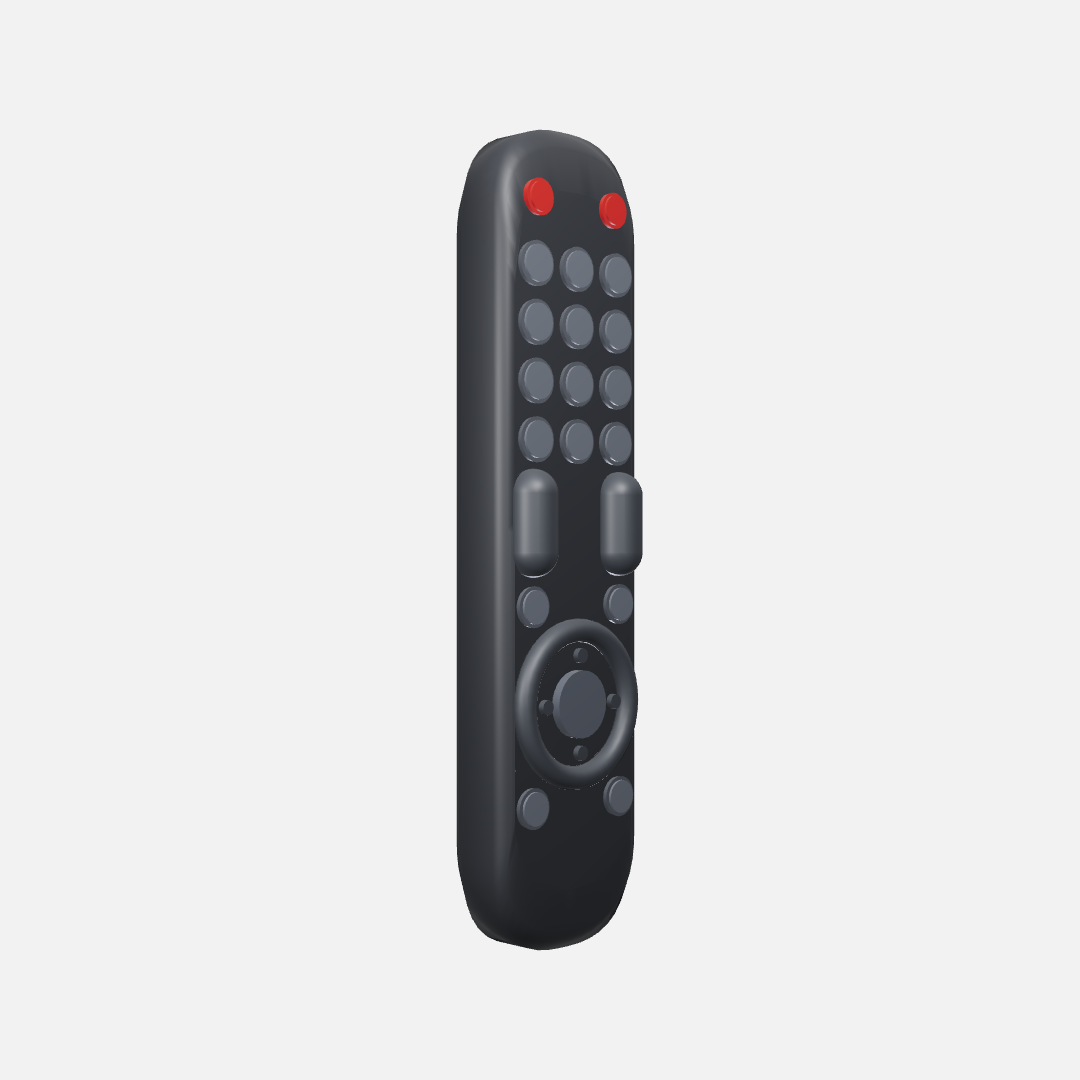
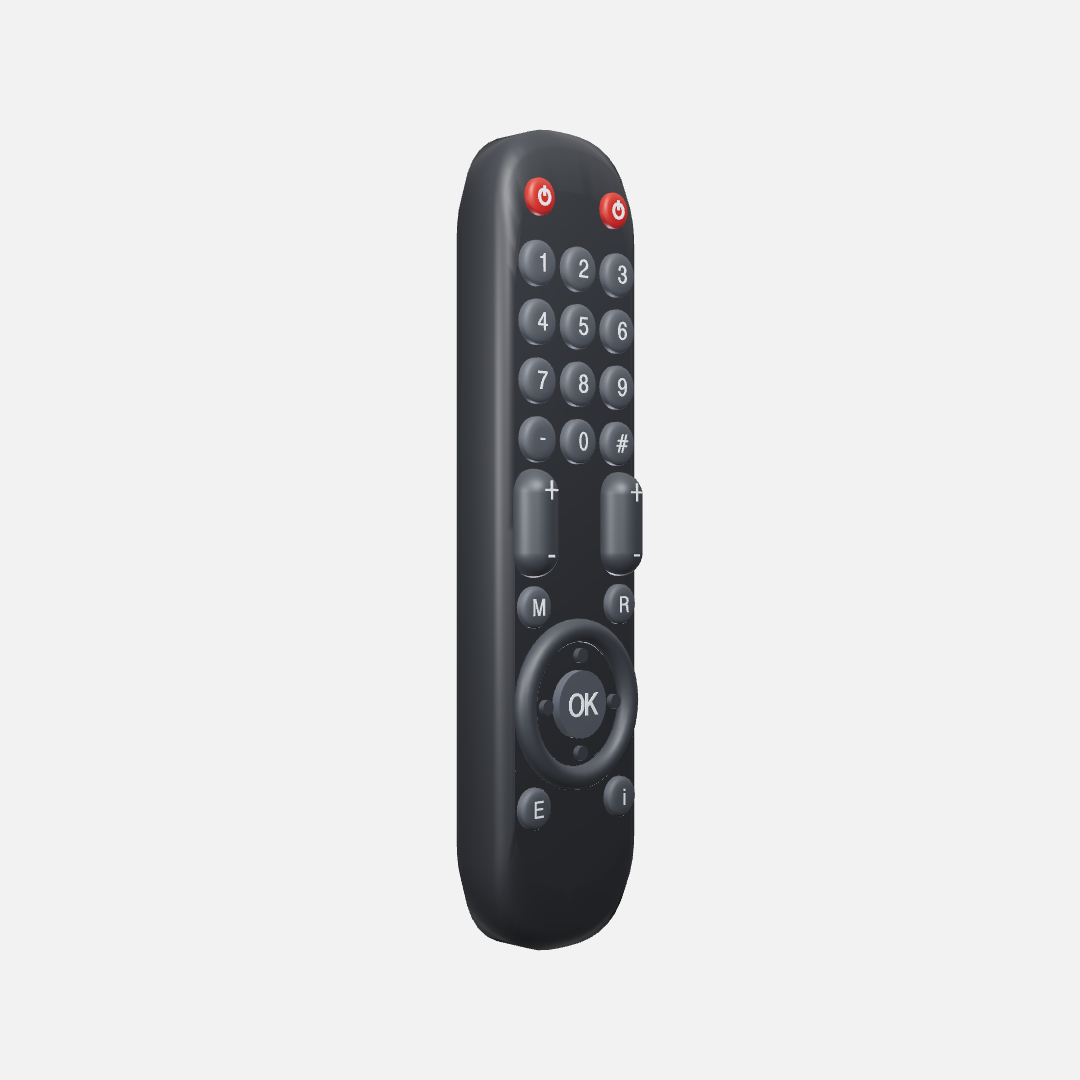
feat(detail): real legends and beveled caps — the remote reads as a product now
Stage 1 of the detail plan, and the end-to-end proof that production surface
detail is reachable under the DOM-free/synchronous factory contract. The remote
went from grey blanks to a labelled, moulded-looking control surface: the
numeric pad shows 1-9, 0, -, #; both power keys carry a real IEC power glyph;
the rockers show + / -; the nav centre says OK; the function keys read M/R/E/i.

Two techniques, both already precedented in this repo, finally applied to the
buttons that lacked them:

- Real numerals as geometry. src/models/detail/text.ts — the one shared file
  the plan sanctions — imports helvetiker as BUNDLED JSON (never FontLoader.load)
  and extrudes it with TextGeometry. A static import is resolved by the bundler,
  so there is no document, no canvas, no async fetch: it builds in the vitest
  node project (typeof document === undefined, asserted) AND renders through the
  Remotion webpack bundler (verified by an actual still, the leg the plan flagged
  untested). glyphs.ts already did this for bespoke ABXY marks with hand-drawn
  Shapes; text.ts covers the arbitrary-alphanumeric case a hand set can't scale
  to, and a new power glyph (a broken ring + bar, Shape[]) joins the glyph set.

- One lathed cap with a real chamfer, replacing the flat disc-on-disc stack.
  The rim now catches an actual highlight — the grimoire's #1 "fake" tell is a
  perfectly sharp edge, and laptop's slab() makes the same case for its bevel.
[…]

diff --git a/src/models/remote/createRemoteModel.ts b/src/models/remote/createRemoteModel.ts
@@ -3,16 +3,20 @@ import {
   Color,
   CylinderGeometry,
   Group,
+  LatheGeometry,
   Mesh,
   MeshStandardMaterial,
   TorusGeometry,
   Vector2,
 } from "three";
 import { Shape } from "three";
+import type { BufferGeometry } from "three";
 import type { ModelHandles } from "../types";
 import type { PartsContract } from "../contract";
 import { loftGeometry } from "../loft";
 import { OBJECT_CLASSES, mountPoints, partSize } from "../knowledge/objectClasses";
+import { glyphGeometry } from "../glyphs";
+import { textGeometry } from "../detail/text";
 
 /**
  * Procedural TV/DVD remote — a new object built to test the one-pass pipeline end to end.
@@ -127,11 +131,14 @@ export const createRemoteModel = (options: RemoteModelOptions = {}): ModelHandle
     metalness: 0.08,
   });
   const keyMaterial = new MeshStandardMaterial({ color: new Color(COL.key), roughness: 0.55, metalness: 0.05 });
-  const keyTopMaterial = new MeshStandardMaterial({ color: new Color(COL.keyTop), roughness: 0.5, metalness: 0.05 });
   const rockerMaterial = new MeshStandardMaterial({ color: new Color(COL.rocker), roughness: 0.5, metalness: 0.06 });
   const powerMaterial = new MeshStandardMaterial({ color: new Color(COL.power), roughness: 0.42, metalness: 0.08 });
   const ringMaterial = new MeshStandardMaterial({ color: new Color(COL.ring), roughness: 0.5, metalness: 0.08 });
   const okMaterial = new MeshStandardMaterial({ color: new Color(COL.ok), roughness: 0.48, metalness: 0.06 });
+  // Legends are a LIT material, never emissive: an emissive legend washes out to pastel under the
+  // bench key light (the gamepad's ABXY comment and materials.ts both record this). COL.legend was
+  // defined and unused until now — this is what it was for.
+  const legendMaterial = new MeshStandardMaterial({ color: new Color(COL.legend), roughness: 0.5, metalness: 0.1 });
 
   const root = new Group();
   root.name = "Remote";
@@ -143,16 +150,36 @@ export const createRemoteModel = (options: RemoteModelOptions = {}): ModelHandle
   body.name = "Body";
   root.add(body);
 
-  /** A round key: a short disc with a slightly smaller lit top, so it reads as a moulded button. */
-  const roundKey = (r: number, mat: MeshStandardMaterial, top = keyTopMaterial): Group => {
+  /**
+   * A button cap as ONE lathed surface: a straight skirt turning through a chamfer into a slightly
+   * dished top. The chamfer is real geometry, not a normal map — it has to catch an actual rim
+   * highlight, the exact thing the old disc-on-disc `roundKey` couldn't (grimoire's #1 "fake" tell
+   * is a perfectly sharp edge; laptop's slab() makes the same argument for its bevel). ~28 radial
+   * segments; caps cache nothing individually but the legend geometry does.
+   */
+  const CAP_TOP = 0.96;
+  const buttonCap = (r: number, h: number, mat: MeshStandardMaterial): Mesh => {
+    const pt = (rad: number, y: number): Vector2 => new Vector2(r * rad, h * y);
+    const profile = [pt(1, 0), pt(1, 0.5), pt(0.94, 0.72), pt(0.78, 0.9), pt(0.48, 0.99), pt(0, CAP_TOP)];
+    const geo = new LatheGeometry(profile, 28);
+    geo.rotateX(Math.PI / 2); // lathe revolves around Y; turn the cap to face +Z like everything else
+    return new Mesh(geo, mat);
+  };
+
+  /**
+   * A button: a lathed cap plus a printed legend flush on its dished top. Returns a named Group so
+   * the part-count and on-surface gates still see one proud control per mount point.
+   */
+  const button = (name: string, r: number, mat: MeshStandardMaterial, legend?: BufferGeometry): Group => {
     const g = new Group();
-    const base = new Mesh(new CylinderGeometry(r, r * 0.95, 0.05, 24), mat);
-    base.rotation.x = Math.PI / 2;
-    g.add(base);
-    const cap = new Mesh(new CylinderGeometry(r * 0.82, r * 0.82, 0.02, 24), top);
-    cap.rotation.x = Math.PI / 2;
-    cap.position.z = 0.032;
-    g.add(cap);
+    g.name = name;
+    const h = r * 0.5;
+    g.add(buttonCap(r, h, mat));
+    if (legend) {
+      const l = new Mesh(legend, legendMaterial);
+      l.position.z = h * CAP_TOP; // sits in the dish; the legend's own depth leaves it half-proud
+      g.add(l);
+    }
     return g;
   };
 
@@ -162,29 +189,39 @@ export const createRemoteModel = (options: RemoteModelOptions = {}): ModelHandle
     parts[obj.name] = obj;
   };
 
-  // ── power keys (from the class mounts) ─────────────────────────────────
-  const powerR_mm = partSize("remote", "power", U).width! / 2;
+  // ── power keys (from the class mounts) — a real IEC power glyph on each ──
+  const powerR = partSize("remote", "power", U).width! / 2;
+  const powerGlyph = glyphGeometry("power", { size: powerR * 0.95, depth: 0.012, bevel: 0.003 });
   mountPoints("remote", "power", U).forEach((p, i) => {
-    const k = roundKey(powerR_mm, powerMaterial, powerMaterial);
-    k.name = i === 0 ? "powerL" : "powerR";
-    place(k, p[0], p[1]);
+    place(button(i === 0 ? "powerL" : "powerR", powerR, powerMaterial, powerGlyph), p[0], p[1]);
   });
 
-  // ── numeric pad ────────────────────────────────────────────────────────
+  // ── numeric pad — real numerals, one geometry per digit (cached, so repeats are free) ──
   const numR = partSize("remote", "number", U).width! / 2;
+  const NUM_LABELS = ["1", "2", "3", "4", "5", "6", "7", "8", "9", "-", "0", "#"];
   mountPoints("remote", "number", U).forEach((p, i) => {
-    const k = roundKey(numR, keyMaterial);
-    k.name = `num${String(i).padStart(2, "0")}`;
-    place(k, p[0], p[1]);
+    const legend = textGeometry(NUM_LABELS[i], { size: numR * 0.82, depth: 0.012 });
+    place(button(`num${String(i).padStart(2, "0")}`, numR, keyMaterial, legend), p[0], p[1]);
   });
 
-  // ── volume / channel rockers ────────────────────────────────────────────
+  // ── volume / channel rockers, with + / − at the ends ────────────────────
   const rk = partSize("remote", "rocker", U);
   const rockerLen = rk.height! - rk.width!; // capsule cylinder length = total − 2·radius
+  const rockerR = rk.width! / 2;
+  const plusGeo = textGeometry("+", { size: rockerR * 0.9, depth: 0.01 });
+  const minusGeo = textGeometry("-", { size: rockerR * 0.9, depth: 0.01 });
   mountPoints("remote", "rocker", U).forEach((p, i) => {
-    const m = new Mesh(new CapsuleGeometry(rk.width! / 2, rockerLen, 6, 16), rockerMaterial);
+    const m = new Mesh(new CapsuleGeometry(rockerR, rockerLen, 6, 16), rockerMaterial);
     // Capsule stands along Y (its default axis) — a tall pill you press top or bottom.
     m.name = i === 0 ? "rockerL" : "rockerR";
+    // + near the top, − near the bottom, on the front of the pill — reads instantly as a rocker.
+    const zFront = rockerR + 0.004;
+    const plus = new Mesh(plusGeo, legendMaterial);
+    plus.position.set(0, rk.height! * 0.3, zFront);
+    m.add(plus);
+    const minus = new Mesh(minusGeo, legendMaterial);
+    minus.position.set(0, -rk.height! * 0.3, zFront);
+    m.add(minus);
     place(m, p[0], p[1], 0.02);
   });
 
@@ -198,6 +235,9 @@ export const createRemoteModel = (options: RemoteModelOptions = {}): ModelHandle
   ok.rotation.x = Math.PI / 2;
   ok.position.z = 0.02;
   navpad.add(ok);
+  const okLegend = new Mesh(textGeometry("OK", { size: navOuter * 0.3, depth: 0.01 }), legendMaterial);
+  okLegend.position.z = 0.055;
+  navpad.add(okLegend);
   // four directional cues, so the ring reads as a d-pad rather than a washer
   for (let d = 0; d < 4; d++) {
     const a = (d / 4) * Math.PI * 2;
@@ -213,13 +253,13 @@ export const createRemoteModel = (options: RemoteModelOptions = {}): ModelHandle
   // d-pad stands a little proud anyway.
   place(navpad, navMount[0], navMount[1], 0.02);
 
-  // ── function keys ────────────────────────────────────────────────────────
+  // ── function keys — single-letter legends (menu / return / exit / info) ──
   const fnR = partSize("remote", "functionButton", U).width! / 2;
   const fnNames = ["fnMenu", "fnReturn", "fnExit", "fnInfo"];
+  const FN_LABELS = ["M", "R", "E", "i"];
   mountPoints("remote", "functionButton", U).forEach((p, i) => {
-    const k = roundKey(fnR, keyMaterial);
-    k.name = fnNames[i];
-    place(k, p[0], p[1]);
+    const legend = textGeometry(FN_LABELS[i], { size: fnR * 0.8, depth: 0.012 });
+    place(button(fnNames[i], fnR, keyMaterial, legend), p[0], p[1]);
   });
 
   root.userData.sculptRuntime = {

diff --git a/src/models/detail/text.ts b/src/models/detail/text.ts
@@ -1,0 +1,70 @@
+import { Font } from "three/examples/jsm/loaders/FontLoader.js";
+import { TextGeometry } from "three/examples/jsm/geometries/TextGeometry.js";
+import type { BufferGeometry } from "three";
+import helvetiker from "three/examples/fonts/helvetiker_regular.typeface.json";
+
+/**
+ * Real 3D text as geometry — the DOM-free, synchronous way.
+ *
+ * WHY THIS FILE IS THE ONLY SHARED ONE. Everything else about a detailed button (bevel, well, cap)
+ * is a pure function of numbers a factory can call inline. A FONT is the one genuine cross-file
+ * singleton: it must be parsed once and reused, so it earns its own module. The library the plan
+ * eventually extracts starts here and nowhere else — the rest stays inline until a second model
+ * repeats the need.
+ *
+ * The font is IMPORTED as bundled JSON, never `FontLoader.load(url)`. That is the whole trick:
+ * a static import is resolved by the bundler at build time, so there is no `document`, no canvas,
+ * and no async fetch — none of the delayRender race `useGltf` exists to manage (hard rule #6).
+ * glyphs.ts already does the same for the ABXY letterforms with hand-drawn Shapes; this covers the
+ * arbitrary-alphanumeric case (digits, VOL/CH) a hand-drawn set can't scale to.
+ *
+ * helvetiker ships with three (MgOpen/MAGENTA, MIT-style) — fine to render into portfolio video. A
+ * branded typeface would be an offline TTF→typeface.json conversion committed as a static asset,
+ * still never a runtime load.
+ */
+
+// The typeface JSON's shape doesn't match three's exported FontData type exactly; the Font
+// constructor only reads the glyph table, so the cast is safe and keeps strict mode honest.
+const FONT = new Font(helvetiker as unknown as ConstructorParameters<typeof Font>[0]);
+
+export interface TextOptions {
+  /** Cap height in model units. */
+  size: number;
+  /** Extrusion depth. Keep small — a legend is a thin printed mark, not a monument. */
+  depth: number;
+  /** Rim chamfer; 0 for a flat printed look. */
+  bevel?: number;
+  /**
+   * Curve subdivision. Capped LOW on purpose: three's default of 12 balloons one digit to ~4.6k
+   * triangles; 4 gives a clean read at legend scale for a third of the cost (measured).
+   */
+  curveSegments?: number;
+}
+
+const cache = new Map<string, BufferGeometry>();
+
+/**
+ * Extruded, centred text geometry, cached by its full spec. Repeated digits then cost nothing —
+ * a numeric pad reuses one "5" geometry wherever a 5 appears. Multi-character strings are ONE
+ * TextGeometry so kerning comes for free.
+ */
+export const textGeometry = (text: string, opts: TextOptions): BufferGeometry => {
+  const cs = opts.curveSegments ?? 4;
+  const bevel = opts.bevel ?? 0;
+  const key = `${text}|${opts.size}|${opts.depth}|${bevel}|${cs}`;
+  const hit = cache.get(key);
+  if (hit) return hit;
+  const geo = new TextGeometry(text, {
+    font: FONT,
+    size: opts.size,
+    depth: opts.depth,
+    curveSegments: cs,
+    bevelEnabled: bevel > 0,
+    bevelThickness: bevel,
+    bevelSize: bevel,
+    bevelSegments: 2,
+  });
+  geo.center();
+  cache.set(key, geo);
+  return geo;
+};

diff --git a/src/models/detail/text.test.ts b/src/models/detail/text.test.ts
@@ -1,0 +1,34 @@
+import { describe, expect, it } from "vitest";
+import { textGeometry } from "./text";
+
+/**
+ * The spike that must pass before anything is built on the font path: real extruded text, in the
+ * NODE project, with no DOM and no async. If `document` were needed this would throw on import.
+ */
+describe("textGeometry", () => {
+  it("builds a digit as geometry in node — no DOM, no canvas, no async", () => {
+    expect(typeof document).toBe("undefined");
+    const geo = textGeometry("5", { size: 1, depth: 0.2 });
+    // Non-empty, and a real 3D extrusion (has depth), not a flat outline.
+    expect(geo.getAttribute("position").count).toBeGreaterThan(0);
+    geo.computeBoundingBox();
+    const box = geo.boundingBox!;
+    expect(box.max.z - box.min.z).toBeCloseTo(0.2, 2);
+  });
+
+  it("kerns a multi-character string as one geometry", () => {
+    const vol = textGeometry("VOL", { size: 1, depth: 0.2 });
+    vol.computeBoundingBox();
+    const one = textGeometry("V", { size: 1, depth: 0.2 });
+    one.computeBoundingBox();
+    // "VOL" is wider than "V" alone — proves the whole string laid out, not just the first glyph.
+    expect(vol.boundingBox!.max.x - vol.boundingBox!.min.x).toBeGreaterThan(
+      one.boundingBox!.max.x - one.boundingBox!.min.x,
+    );
+  });
+
+  it("caches by spec so a repeated digit costs nothing", () => {
+    expect(textGeometry("7", { size: 1, depth: 0.2 })).toBe(textGeometry("7", { size: 1, depth: 0.2 }));
+    expect(textGeometry("7", { size: 1, depth: 0.2 })).not.toBe(textGeometry("7", { size: 2, depth: 0.2 }));
+  });
+});

diff --git a/src/models/remote/createRemoteModel.test.ts b/src/models/remote/createRemoteModel.test.ts
@@ -1,4 +1,4 @@
-import { Vector3 } from "three";
+import { Box3, Group, Mesh, Vector3 } from "three";
 import { describe, expect, it } from "vitest";
 import { checkPartsContract, checkPartsOnSurface } from "../contract";
 import { REMOTE_CONTRACT, createRemoteModel } from "./createRemoteModel";
@@ -49,5 +49,36 @@ describe("createRemoteModel", () => {
   it("takes a brand chassis colour through options", () => {
     const { parts } = createRemoteModel({ bodyColor: "#112233" });
     expect(parts.bodyMaterial.color.getHexString()).toBe("112233");
+  });
+
+  it("prints a legend on every labelled key — a cap plus a legend mesh, not a blank pill", () => {
+    // The whole point of Stage 1: keys carry real marks. Each labelled button Group is a lathed cap
+    // plus a legend child, so a numeral/glyph triangulated and got mounted.
+    const { parts } = createRemoteModel();
+    for (const key of ["num00", "num10", "powerL", "fnMenu"]) {
+      const g = parts[key] as Group;
+      const meshes = g.children.filter((c): c is Mesh => (c as Mesh).isMesh);
+      expect(meshes.length, `${key} should have a cap + a legend`).toBeGreaterThanOrEqual(2);
+      // The legend mesh is non-empty geometry (a real extruded mark, not a degenerate outline).
+      const legend = meshes[1];
+      expect(legend.geometry.getAttribute("position").count).toBeGreaterThan(0);
+      expect(new Box3().setFromObject(legend).isEmpty()).toBe(false);
+    }
+  });
+
+  it("is deterministic across calls — body AND the detailed keys", () => {
+    // The old test only covered the Body. Legends and lathed caps are new geometry that must also
+    // be reproducible (hard rule #1): no Math.random, static label strings, cached glyph geometry.
+    const dump = (m: ReturnType<typeof createRemoteModel>) => {
+      const out: number[] = [];
+      for (const name of ["Body", "num00", "powerL", "rockerL", "navpad"]) {
+        (m.group.getObjectByName(name) as Group).traverse((o) => {
+          const g = (o as Mesh).geometry;
+          if (g) out.push(g.getAttribute("position").array.length);
+        });
+      }
+      return out;
+    };
+    expect(dump(createRemoteModel())).toEqual(dump(createRemoteModel()));
   });
 });

diff --git a/src/models/glyphs.ts b/src/models/glyphs.ts
@@ -10,8 +10,10 @@ import type { BufferGeometry } from "three";
  * actually need as `Shape` outlines keeps factories synchronous and unit-testable, and the
  * letters get real extruded depth so they catch the key light like moulded plastic does.
  *
- * Scope on purpose: only the marks a controller face needs. This is not a font — for arbitrary
- * text, render it in the 2D layer over the 3D, the way BybitGif composites its card faces.
+ * Scope on purpose: only the bespoke marks no font carries — a power symbol, a nexus badge, the
+ * ABXY letterforms tuned to read at cap scale. For arbitrary ALPHANUMERICS (digits, VOL/CH) use
+ * detail/text.ts, which extrudes a statically-imported typeface — the sanctioned exception, still
+ * DOM-free and synchronous because the font is bundled JSON, never a runtime load.
  *
  * All glyphs are drawn in a 1×1 box centred on the origin, so a caller scales by cap height.
  */
@@ -134,12 +136,38 @@ const shapeNexus = (): Shape => {
   return s;
 };
 
+/**
+ * IEC power mark: a broken ring with a vertical bar rising through the gap at the top. Two disjoint
+ * filled regions, returned as an array — ExtrudeGeometry takes Shape[] and extrudes both, so the
+ * bar and ring stay separate contours instead of being forced into one self-intersecting outline.
+ */
+const shapePower = (): Shape[] => {
+  const outer = 0.5;
+  const inner = 0.32;
+  const half = 0.32; // half the top gap, radians
+  const top = Math.PI / 2;
+  const ring = new Shape();
+  // Outer arc the long way round (CCW), leaving the gap at the top, then the inner arc back.
+  ring.absarc(0, 0, outer, top + half, top - half + Math.PI * 2, false);
+  ring.absarc(0, 0, inner, top - half + Math.PI * 2, top + half, true);
+  ring.closePath();
+
+  const bar = new Shape();
+  bar.moveTo(-0.09, 0.05);
+  bar.lineTo(0.09, 0.05);
+  bar.lineTo(0.09, 0.62);
+  bar.lineTo(-0.09, 0.62);
+  bar.closePath();
+  return [ring, bar];
+};
+
 const GLYPHS = {
   A: shapeA,
   B: shapeB,
   X: shapeX,
   Y: shapeY,
   nexus: shapeNexus,
+  power: shapePower,
 } as const;
 
 export type GlyphName = keyof typeof GLYPHS;